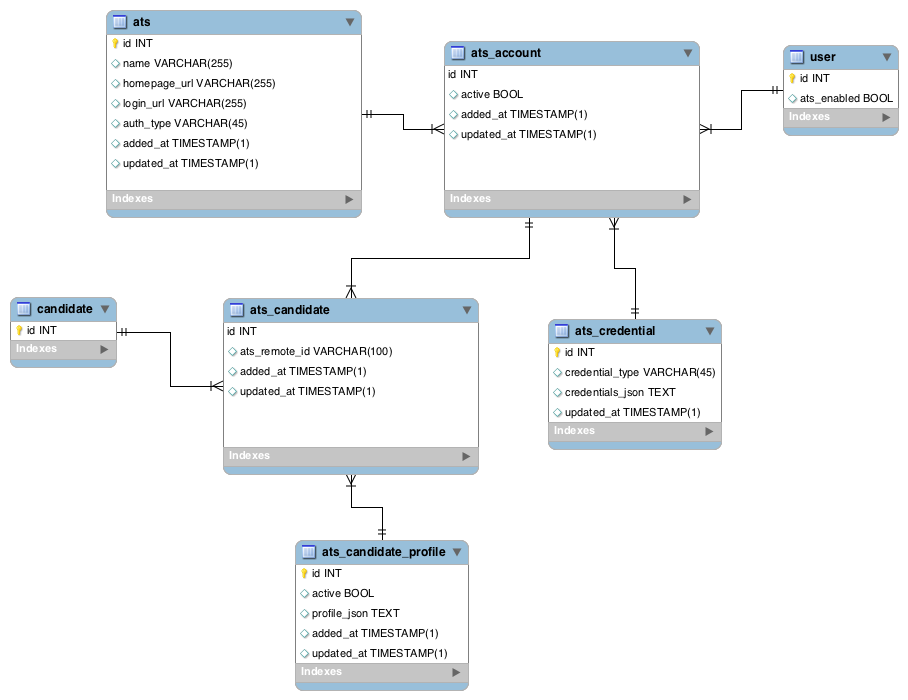
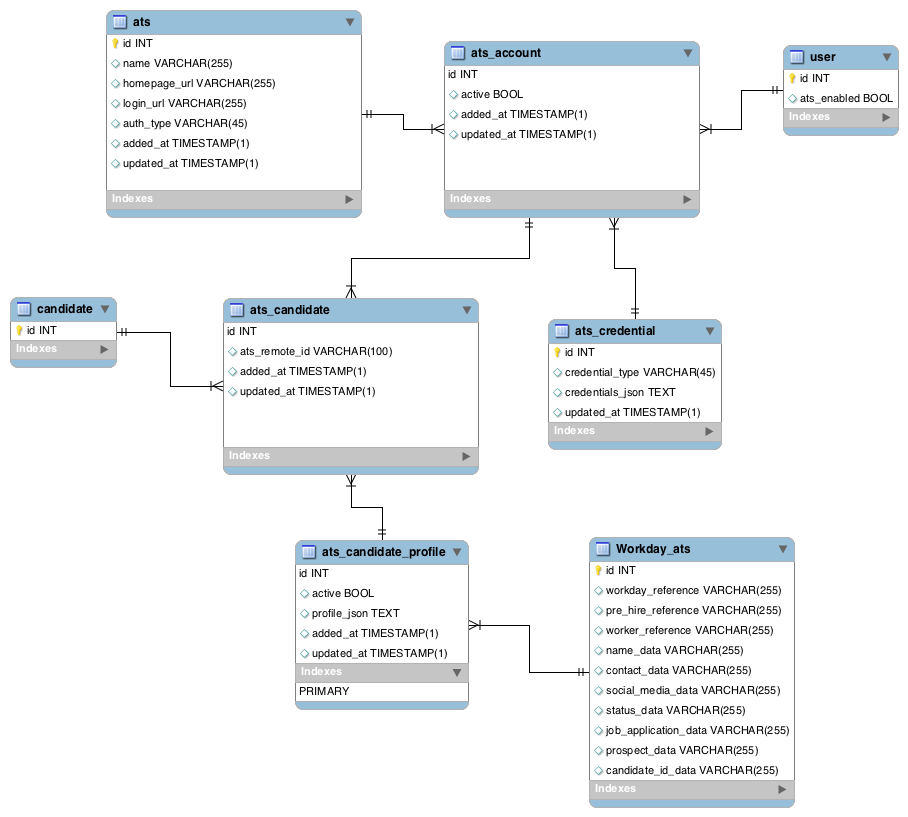
Add Workday table.

diff --git a/app_common/common/models/workday.py b/app_common/common/models/workday.py
@@ -1,0 +1,39 @@
+"""
+Database classes for ATS service.
+"""
+
+__author__ = 'Joseph Arceneaux'
+
+
+from db import db
+
+
+class WorkdayTable(db.Model):
+    """
+    Class representing the Workday candidate table.
+    """
+    __tablename__ = 'workday_ats'
+    id = db.Column(db.Integer, primary_key=True)
+    workday_reference = db.Column(db.Text)
+    pre_hire_reference = db.Column(db.Text)
+    worker_reference = db.Column(db.Text)
+    name_data = db.Column(db.Text)
+    contact_data = db.Column(db.Text)
+    social_media_data = db.Column(db.Text)
+    status_data = db.Column(db.Text)
+    job_application_data = db.Column(db.Text)
+    prospect_data = db.Column(db.Text)
+    candidate_id_data = db.Column(db.Text)
+
+    def __repr__(self):
+        return "<Workday ATS (name = %r)>" % self.name
+
+    @classmethod
+    def get_by_reference(cls, reference):
+        """
+        Return a Workday candidate identified by Workday reference.
+
+        :param string reference: The Workday reference used to identify this candidate.
+        """
+        assert isinstance(reference, basestring), 'Reference should be a string'
+        return cls.query.filter_by(workday_reference=reference).first()

diff --git a/ats_service/ats/workday.py b/ats_service/ats/workday.py
@@ -8,10 +8,12 @@ import json
 
 from urlparse import urlparse
 
+from ats_service.common.models.workday import WorkdayTable
+
 
 class Workday(object):
     """
-    Class representing datq we need to use the Workday API.
+    Class representing data we need to use the Workday API.
     """
 
     def __init__(self, logger, ats_name, login_url, user_id, credentials):
